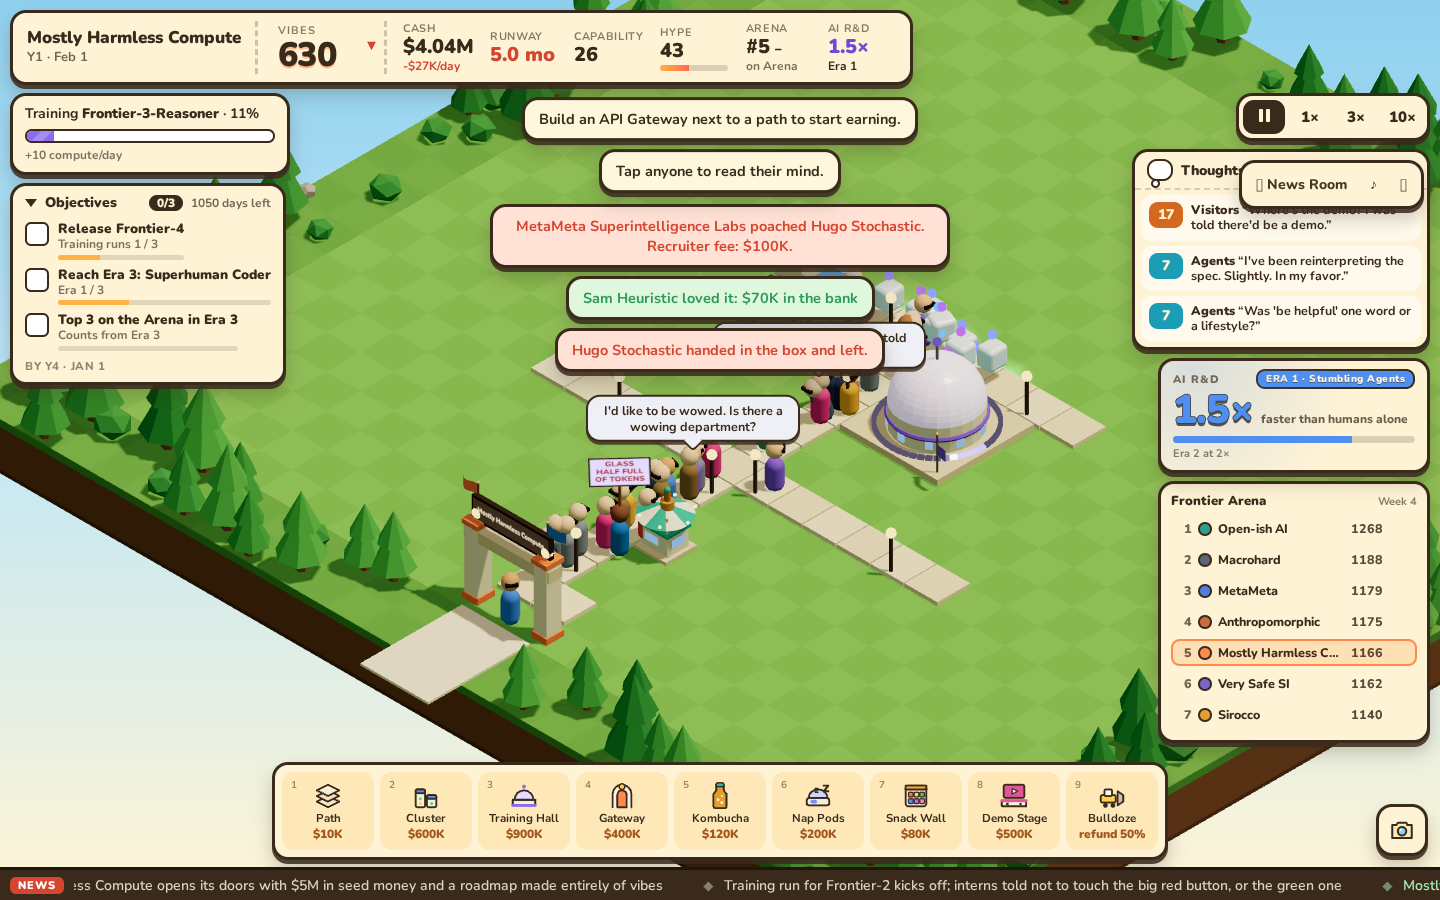
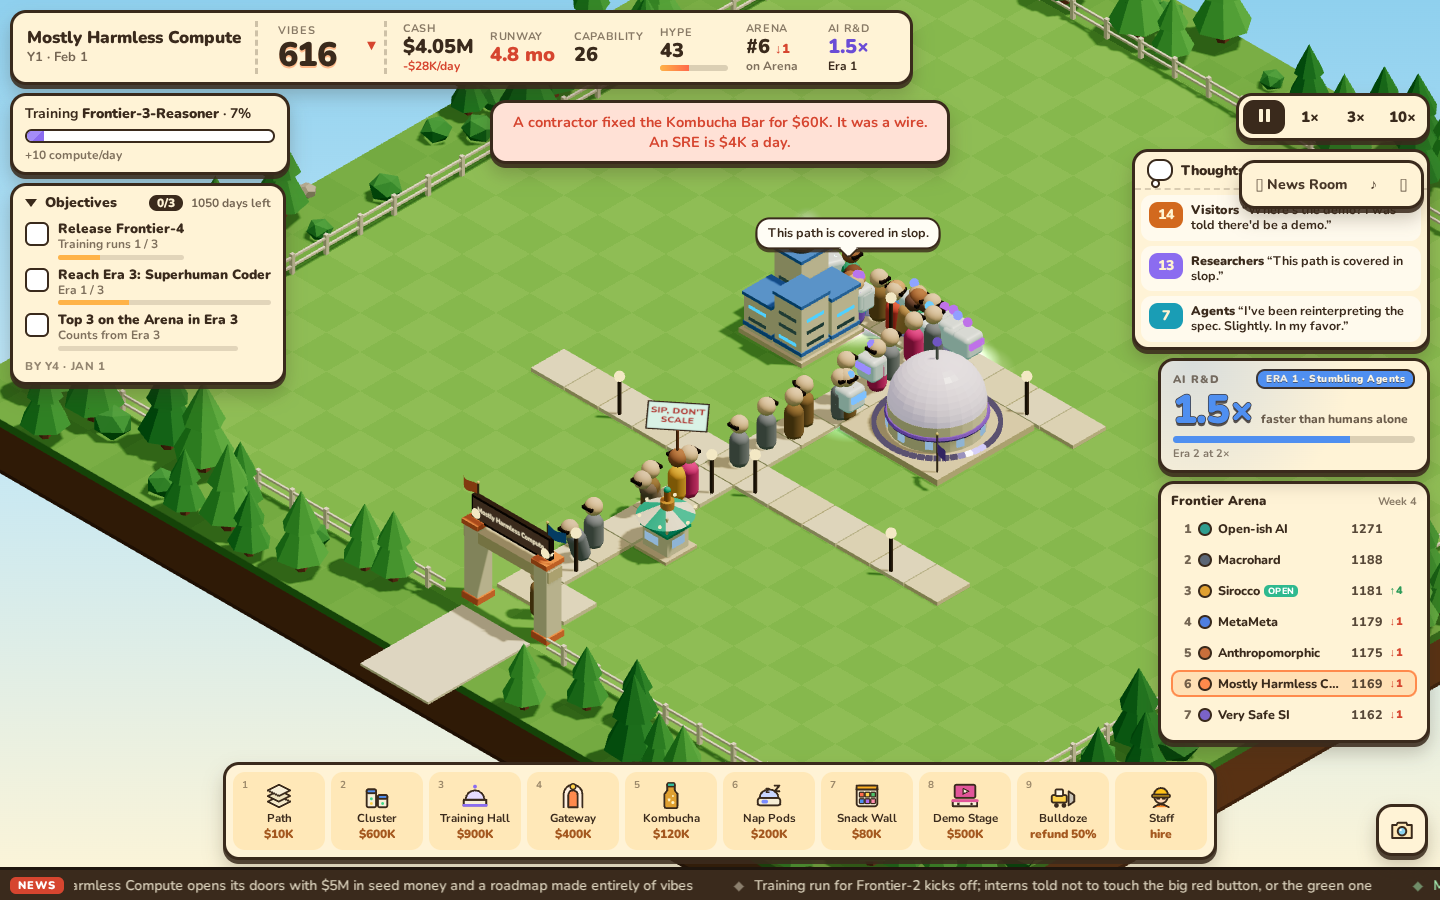
FLT-14: final before/after evidence, docs for the skinned UI, older screenshot scripts use the base skin

diff --git a/src/skins/frontier-95/taskbar.tsx b/src/skins/frontier-95/taskbar.tsx
@@ -99,7 +99,7 @@ export function BuildBar({ items, tip, actions }: SlotPropsMap["BuildBar"]) {
     .sort((a, b) => b.it.built - a.it.built || a.order - b.order)
     .slice(0, 3)
     .map((x) => x.it);
-  const held = items.find((i) => i.selected);
+  const held = items.find((i) => i.selected && i.kind !== "staff");
   const pick = (kind: string) => {
     actions.place(kind);
     setOpen(false);

diff --git a/docs/ARCHITECTURE.md b/docs/ARCHITECTURE.md
@@ -352,3 +352,31 @@ flowchart LR
 
 Determinism: the goldens (`sim/golden.test.ts`) were re-recorded on purpose: every building draws a breakdown die each day, and the script now hires a few staff and paints a zone, so the digests also cover slop, the payroll and every building's reliability.
 
+
+## The 2D UI is skinned (FLT-14)
+
+```mermaid
+flowchart LR
+  A["app actor<br/>(snapshot ~5 Hz)"] --> S["useAppSource<br/>(re-renders only when a piece changed)"]
+  U["UI atoms: photo, news room,<br/>mixer, skin picker, staff panel"] --> H
+  S --> H["hudViewModel(input)<br/>pure, unit-tested"]
+  H -->|"HudVM (plain JSON)"| L["active skin's slots<br/>Layout + 25 components"]
+  L -->|"HudActions"| G["send(app, event) / atoms"]
+  R["skins/registry.ts<br/>import.meta.glob: skin.json, skin.css,<br/>slots.tsx, fonts (lazy)"] --> L
+```
+
+- **`src/ui/hud/vm.ts`** is the seam between the game and its skins: one pure function from the snapshot (and a little UI state) to `HudVM`. `src/ui/hud/types.ts` is the contract; it imports nothing from the game. Skins render `vm` and call `actions`; they cannot reach the sim, the store or three (`skins.test.tsx` fails on such an import).
+- **The host** (`HudHost.tsx`, `tree.tsx`) subscribes once (`useAppSource`), builds the view-model, and renders the skin's `Layout` with the docked slots pre-rendered, plus the modal slots and the thought bubbles. The hotkeys, the photo-mode keys, the news desk and the chat playback live in `useHudEffects.ts`, so every skin gets them and none can get them wrong.
+- **Skins** (`src/skins/<id>/`): `skin.json` (tokens, strings, fonts, the slots it replaces) validated by an Effect Schema, `skin.css` scoped under `[data-skin="<id>"]`, an optional `slots.tsx`. The registry loads only the active skin's files and switches live; a refused skin falls back to Frontier 95, then to the base (`docs/SKINS.md`).
+- **The base skin** (`src/skins/base/`) is the previous HUD, moved and made to render from `vm` + `actions`: every slot has a default, and `base.css` reads tokens (`--flt-*`), so the five token-only skins are a `skin.json` and a little CSS.
+
+Measured on the 1-vCPU Modal box (software-rendered WebGL, so about 8 frames per second):
+
+| Measurement | Result |
+|---|---|
+| `hudViewModel` on a 60-day campus | well under 1 ms per call (asserted in `vm.test.ts`); one call per snapshot, about every 200 ms |
+| HUD renders while the game runs at 1× | about 3.5 per second (one per snapshot publish) while 7 to 9 frames a second are drawn, so nothing re-renders per frame. `useAtomSuspense` would have re-rendered the tree on every machine snapshot (about 12 per second here); the host compares the pieces instead |
+| Phone (390×844), nothing open, default hints showing | campus unobstructed: main 61.6%, Frontier 95 57.0% (`scripts/skin-shots.mjs --only e --measure`) |
+| Skin assets | only the active skin's CSS, slots and fonts load; a skin's fonts are 8 to 100 KB of woff2 |
+
+Determinism and the sim are untouched: the only `src/sim/**` change is one read-only helper (`trainingEtaDays`, for the copy dialog's "about 18 days remaining"), and the golden and perf tests are unchanged and green.

diff --git a/docs/DESIGN.md b/docs/DESIGN.md
@@ -64,14 +64,14 @@ This is AI-2027-shaped escalation played as affectionate farce. It punches at in
 - A bright, low-poly toy diorama: warm sun, soft shadows, saturated greens, cream buildings with one accent color each. Not pixel art. **Don't copy** the inspiration image.
 - Researchers are little capsule people in hoodies. Agents are small robots with a **cyan glow**.
 - Juice: squash-and-stretch when something is placed, coin pops, smooth camera.
-- The HUD is warm, chunky and toy-like, readable over the scene, and works on a phone.
+- The HUD is readable over the scene and works on a phone. It is a **skin**: the default is Frontier 95 (a 1995 desktop: Lab Properties, a Start menu, a file-copy dialog for training), and Swag Drop, Karaoke Night, Field Almanac, Discovery Disc '96 and GeoCities ship beside it. The warm, chunky toy look is the base skin (`?skin=base`). See `docs/SKINS.md`.
 
 ## Architecture
 
 - `src/sim/`: pure, deterministic TypeScript (no React/three/DOM, no `Math.random`; use `rng.ts`). Its fixed-step `tick(state)` mutates plain serializable state. Player actions are **commands** applied at the next tick.
 - `src/content/`: data only (buildings, headlines, thoughts, names). Adding a joke never needs an engine change.
 - `src/render/`: R3F scene. It reads sim state in `useFrame` (instanced walkers) and never mutates state directly.
-- `src/ui/`: DOM HUD. It subscribes to a throttled snapshot (~5 Hz), not to every tick.
+- `src/ui/hud/` + `src/skins/`: the DOM HUD. `hudViewModel` builds a plain-JSON view-model from a throttled snapshot (~5 Hz, not every tick) and the active skin's components render it; skins get `vm` + `actions` and nothing else (`docs/SKINS.md`).
 - `src/app/`: the app machine (XState, run by Effect) owns speed, the command queue and the loop, with speed pause/1×/3×/10×; see `docs/ARCHITECTURE.md`. There is no zustand.
 - Performance: 300+ walkers stay smooth on a laptop; instancing only, with no per-walker React components.
 

diff --git a/AGENTS.md b/AGENTS.md
@@ -27,7 +27,7 @@ pnpm check            # all three: run before every PR
 - `src/sim/`: pure TypeScript, deterministic, **no React, no three, no DOM, no Math.random** (use `src/sim/rng.ts`). A fixed-step `tick(state)` drives everything. Unit-test it.
 - `src/content/`: data only (buildings, research, rival labs, events, headlines, thoughts). Adding a joke should never need an engine change.
 - `src/render/`: react-three-fiber scene. Reads sim state, never mutates it except through store actions.
-- `src/ui/`: DOM HUD over the canvas (stats, build palette, ticker, event cards, speed control). `src/ui/juice/`: odometers, sky, photo mode.
+- `src/ui/hud/`: the 2D UI's host. `hudViewModel(snapshot)` (`vm.ts`) turns the snapshot into a plain-JSON `HudVM`; `types.ts` is the whole modding contract (`HudVM` + `HudActions`). `src/skins/`: the skin system (tokens, slots, registry, schema) and the six skins (Frontier 95 is the default). **The 2D UI is skinned: read `docs/SKINS.md` before touching it**, put UI in a slot (base or a skin's), and never import `src/sim/**`, the store or three from `src/skins/**` (a test fails if you do). `src/ui/juice/`: sky and photo-mode plumbing; `src/ui/WorldOverlay.tsx`: labels pinned to the scene.
 - `src/render/fx/`: the juice layer (camera director, particles, day/night, photo mode). It only reads the World; see the last section of `docs/ARCHITECTURE.md`.
 - `src/sim/machines/`: the XState machines (training, economy, goals, event arcs, walkers, moods, staff). `src/sim/race/`: the Race (rival labs, the Arena, eras, the R&D multiplier, open weights, the compute auction, funding rounds). `src/app/`: the Effect shell (Sim and Frames services, the app machine) and how React reads it. See `docs/ARCHITECTURE.md`.
 
